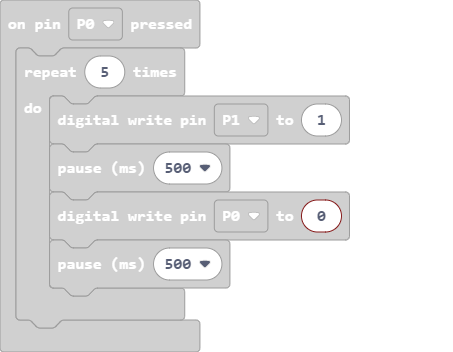
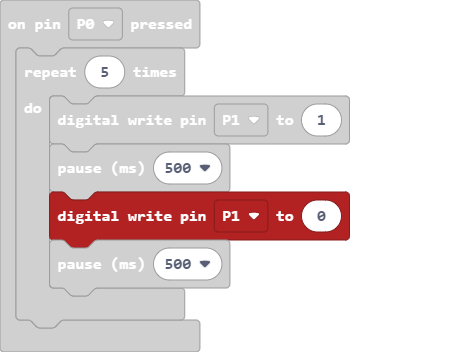
Update main.blocks, main.ts

Changed region(s): [[0.0927, 0.5312, 0.7726, 0.7188]]

diff --git a/main.ts b/main.ts
@@ -2,7 +2,7 @@ input.onPinPressed(TouchPin.P0, function () {
     for (let index = 0; index < 5; index++) {
         pins.digitalWritePin(DigitalPin.P1, 1)
         basic.pause(500)
-        pins.digitalWritePin(DigitalPin.P0, 0)
+        pins.digitalWritePin(DigitalPin.P1, 0)
         basic.pause(500)
     }
 })
